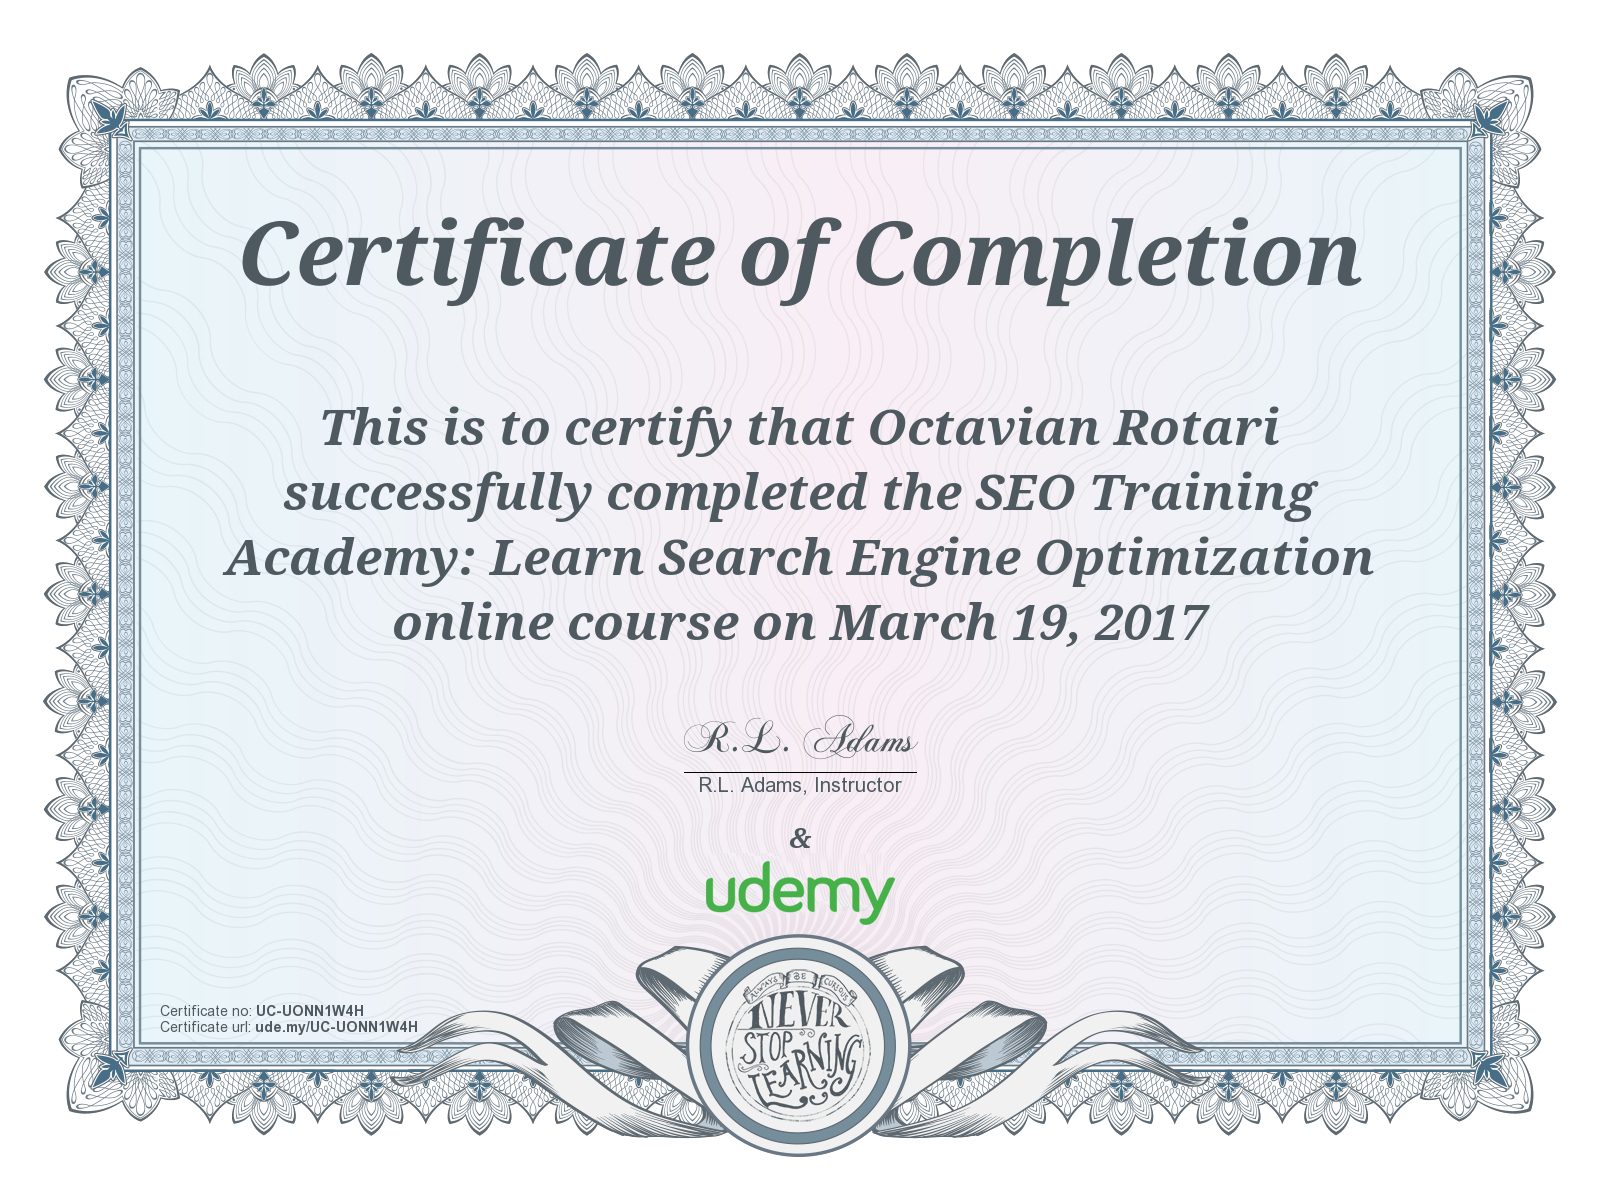
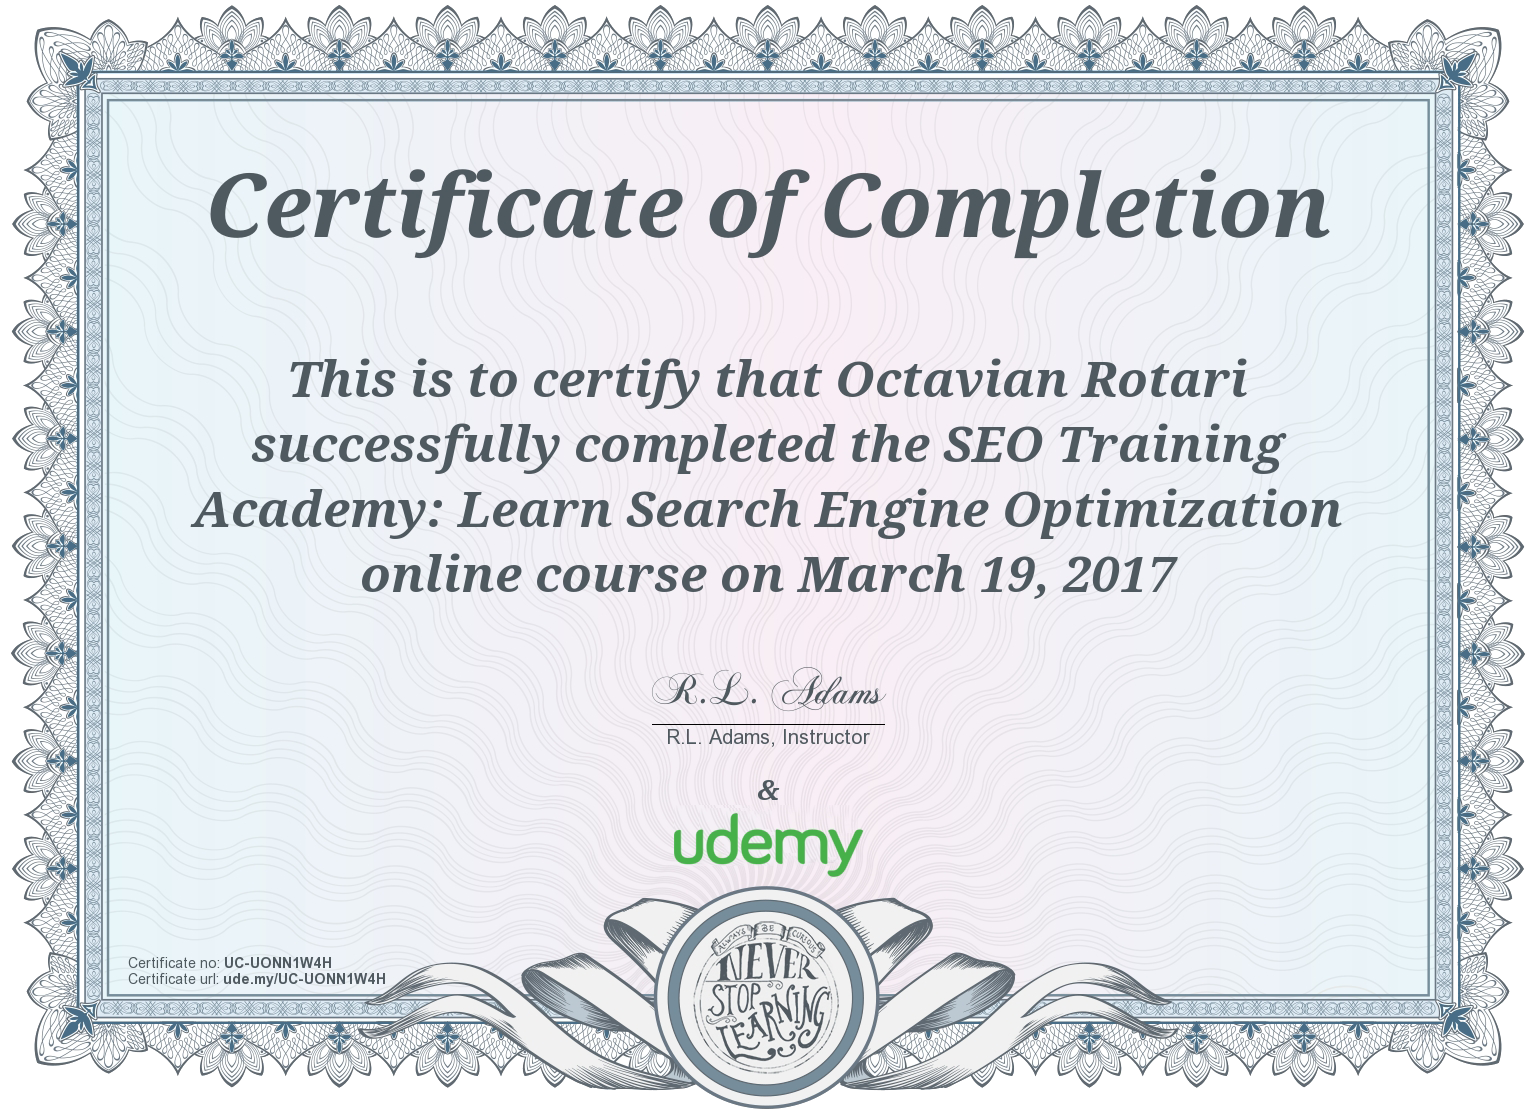
fix certificates and change color scheme

diff --git a/css/style.css b/css/style.css
@@ -10,7 +10,7 @@
   display: inline-block;
   width: 23%;
   float: left;
-  background-color: #336633;
+  background-color: #ffa236;
   height: 100vh;
 }
 
@@ -28,7 +28,7 @@
 }
 
 #sidebar-header {
-  color: #e7e5ce;
+  color: #000;;
 }
 
 #sidebar-header h1{
@@ -69,7 +69,7 @@
 }
 
 #contacts p {
-  color: #e7e5ce;
+  color: #000;
   display: inline-block;
   margin-left: 10px;
   position: absolute;
@@ -83,11 +83,13 @@
 }
 
 .main {
+  background-image: url('../img/me-train.jpg');
+  background-size: cover;
   position: absolute;
   z-index: 9;
   left: 23%;
   transition: 1s;
-  background: #fff;
+  /*background: #fff;*/
   display: inline-block;
   width: 77%;
   margin: auto;
@@ -155,7 +157,6 @@
 }
 
 .text, .image {
-  display: inline-block;
   width: 50%;
   color: #fff;
 }
@@ -168,28 +169,58 @@
   position: absolute;
   min-width: 70%;
   margin: auto;
+  box-shadow: 0px 10px 25px 2px rgba(0, 0, 0, 0.51);
 }
 
 #content-info {
   color: #e7e5ce;
-  height: 370px;
+  height: 400px;
   margin: auto;
   display: none;
-  background-color: #3399cc;
-  box-shadow: 0px 10px 25px -5px rgba(0,0,0,0.30);
+  background-color: rgba(51, 153, 204, 0.8);
+  box-shadow: 0px 10px 25px 2px rgba(0, 0, 0, 0.51);
 }
 
 #content-info h4:first-child{
   margin-top:0;
 }
 
+#content-info .text {
+  text-align: left;
+  padding: 20px;
+}
+
+#content-info .text h4{
+  font-family: helvetica;
+  font-size: 1.71em;
+}
+
+#content-info .text h4 a{
+  text-decoration: none;
+  color: #fff;
+}
+
+#content-info .text h4 a:hover{
+  color: #4e2e69;
+}
+
+#content-info .text h5{
+  margin-bottom: 1em;
+  margin-top: 0.71em;
+  text-align: left;
+}
+
 #content-info .image {
   height: 100%;
+  position: relative;
 }
 
 #content-info img {
-  max-width: 70%;
-  transform: translateY(20%);
+  position: absolute;
+  max-width: 75%;
+  transform: translate(-50%, -50%);
+  top: 50%;
+  left: 50%;
 }
 
 #dropdown {

diff --git a/js/resumeBuilder.js b/js/resumeBuilder.js
@@ -136,7 +136,6 @@ function buildCourses(dataValue) {
   var course = courses.find(clicked, dataValue);
   var name = HTMLeducationName.replace('%data%', course.name);
   var date = HTMLeducationDate.replace('%data%', course.degreeDates);
-  var url = HTMLeducationUrl.replace('%data%', course.url).replace('%data%', course.name);
   var description = HTMLeducationDescription.replace('%data%', course.description);
   var image = HTMLeducationCertificate.replace('%data%', course.certificate);
 
@@ -152,7 +151,7 @@ function buildCourses(dataValue) {
   }
 
   main.contentInfo.append(HTMLdivText, HTMLdivImage);
-  $('.text').append(name, location, date, url, grade, description);
+  $('.text').append(name, location, date, grade, description);
   $('.image').append(image);
 }
 
@@ -360,18 +359,24 @@ function showContentInfo(callback) {
       if ($('#content-info').children().length !== 0) {
         slideUpContentInfo().promise().done( function () {
           callback(dataValue);
-          $('#content-info').slideDown(500, function () {
-            $(this).css('display', 'flex');
-          });
+          slideDownContentInfo();
         });
       }
       else {
         callback(dataValue);
-        $('#content-info').slideDown(500, function () {
-          $(this).css('display', 'flex');
-        });
+        slideDownContentInfo();
       }
     });
+  });
+}
+
+function slideDownContentInfo() {
+  $('#content-info').slideDown({
+    start: function () {
+      $(this).css({
+        display: 'flex'
+      });
+    }
   });
 }
 

diff --git a/js/helper.js b/js/helper.js
@@ -37,14 +37,13 @@ const HTMLprojectDescription = '<p id="project-description">%data%</p>';
 const HTMLprojectImage = '<img src="%data%" alt="">';
 
 // education
-const HTMLeducationName = '<h4 id="education-name">%data%</h4>';
+const HTMLeducationName = '<h4 id="education-name"><a href="blank">%data%</a></h4>';
 const HTMLeducationLocation = '<h5 id="education-location">%data%</h5>';
 const HTMLeducationType = '<h5 id="education-type">%data%</h5>';
 const HTMLeducationDate = '<h5 id="education-dates">%data%</h5>';
-const HTMLeducationUrl = '<h5 id="education-url"><a href="%data%">%data%</a></h5>';
 const HTMLeducationDescription = '<p id="education-description">%data%</p>';
-const HTMLeducationGrade = '<h5 id="education-grade">%data%</h5>';
-const HTMLeducationCertificate = '<img src="%data%" alt="">';
+const HTMLeducationGrade = '<h5 id="education-grade">Grade: %data%%</h5>';
+const HTMLeducationCertificate = '<img class="certificate" src="%data%" alt="">';
 
 const HTMLdivText = '<div class="text"></div>';
 const HTMLdivImage = '<div class="image"></div>';

diff --git a/index.html b/index.html
@@ -37,7 +37,6 @@
 				<div id="header">
 				</div>
 				<div id="content">
-					<div id="content-header"></div>
 					<div id="content-info"></div>
 				</div>
 			</div>
